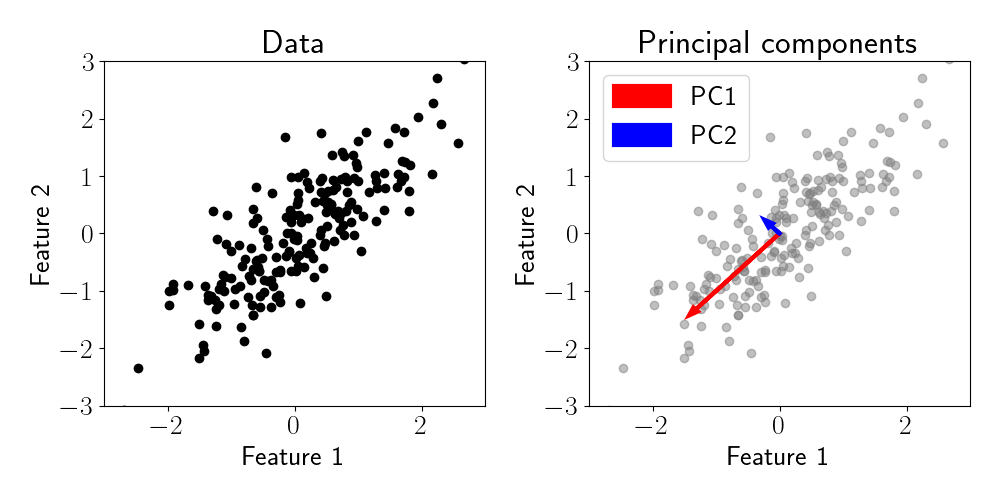
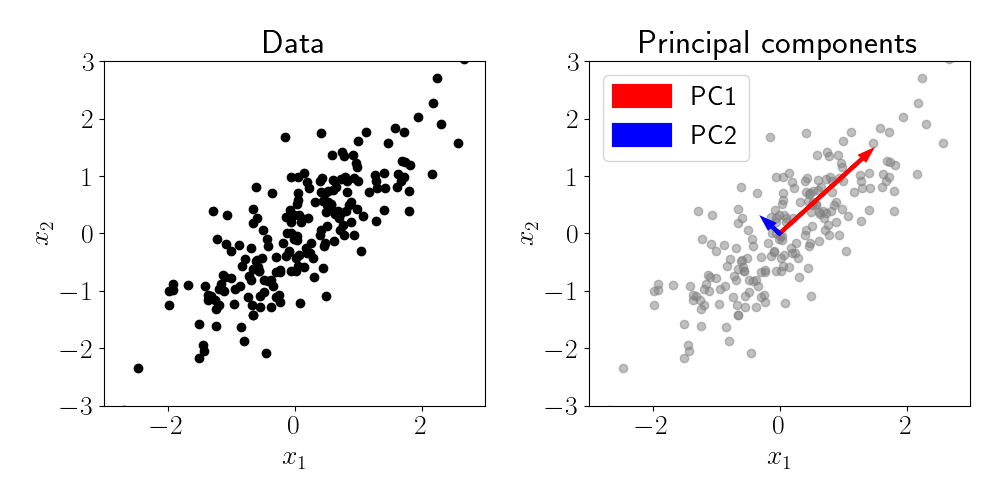
add kernel pca post

diff --git a/_posts/2022-10-22-kernel-pca.md b/_posts/2022-10-22-kernel-pca.md
@@ -1,0 +1,113 @@
+---
+layout: post
+title: "Kernel PCA"
+blurb: "A nonlinear extension of PCA using basis expansions and the kernel trick."
+img: ""
+author: "Andy Jones"
+categories: journal
+tags: []
+<!-- image: -->
+---
+
+$$\DeclareMathOperator*{\argmin}{arg\,min}$$
+$$\DeclareMathOperator*{\argmax}{arg\,max}$$
+
+<style>
+.column {
+  float: left;
+  width: 30%;
+  padding: 5px;
+}
+
+/* Clear floats after image containers */
+.row::after {
+  content: "";
+  clear: both;
+  display: table;
+}
+</style>
+
+## Principal component analysis
+
+Recall that PCA is a linear dimensionality reduction method that performs a change of basis in the data. 
+
+Given an $n \times p$ data matrix $\mathbf{X},$ PCA is performed using an eigendecomposition of the sample covariance matrix. Let $\mathbf{C} = n^{-1} \mathbf{X}^\top \mathbf{X}$ be the sample covariance matrix. Then the first $k$ principal components (where $k < p$) are given by the top $k$ eigenvectors of $\mathbf{C},$ which we denote as $\mathbf{U}_k = (\mathbf{u}_1, \cdots, \mathbf{u}_k).$ The columns of $\mathbf{U}$ can be interpreted as the directions in the data's feature space with the highest variance.
+
+Dimensionality reduction can then be performed by projecting the data onto these components:
+
+$$\tilde{\mathbf{X}}_k = \mathbf{X} \mathbf{U}_k,$$
+
+where $\tilde{\mathbf{X}}_k$ denotes the data matrix with reduced dimensionality.
+
+### Example
+
+Consider a simple dataset with $p = 2$ features and $n = 200$ samples, where the two features are positively correlated with one another. This is demonstrated in the left panel of the figure below, where each black point represents a sample. We can clearly observe the correlation structure between the two features.
+
+To verify that PCA can capture this correlation structure, we can fit PCA with $k=2$ and plot the resulting principal components. These are shown in the right panel of the figure below, where each PC is represented by a vector whose length is proportional to its respective eigenvalue. We can see that PC1 captures the main axis of correlation between the features, while PC2 captures the residual variation that is orthogonal to PC1.
+
+<center>
+<figure>
+  <img src="/assets/kernel_pca_data.png">
+  <figcaption><i><b>Left</b>: Data. <b>Right</b>: Principal components represented as vectors whose lengths are proportional to their respective eigenvalues.</i></figcaption>
+</figure>
+</center>
+
+### Limitations of PCA
+
+While PCA is useful for finding linear manifolds in a dataset, many data types contain nonlinear structure. As a simple motivating example, consider another two-dimensional dataset where there is a quadratic relationship between the features. The figure below shows this situation and the resulting principal components.
+
+<center>
+<figure>
+  <img src="/assets/kernel_pca_data_quadratic.png">
+  <figcaption><i><b>Left</b>: Data. <b>Right</b>: Principal components represented as vectors whose lengths are proportional to their respective eigenvalues.</i></figcaption>
+</figure>
+</center>
+
+Although PC1 is generally pointing in the direction of highest variance, it does not fully capture the curved relationship between the two features. This is an inherent limitation of PCA: it is only equipped to identify linear relationships.
+
+## Kernel PCA
+
+The linearity of PCA motivates the need to generalize this assumption to account for nonlinear structure in datasets. **Kernel PCA**, first proposed in 1997, is a natural extension of PCA that allows for identifying nonlinear structure.
+
+While the theoretical underpinnings of kernel PCA are sophisticated, the basic idea is fairly simple: *instead of operating in the native data space, we first perform a nonlinear transformation of the data, and then perform PCA in that space*. This "nonlinear transformation" (more commonly called a basis expansion) can be chosen to reflect the analyst's assumptions around what type of structure exists in the data.
+
+We denote the function describing the basis expansion as $\phi : \mathbb{R}^p \rightarrow \mathbb{R}^q$ where in many cases $q > p.$ In words, $\phi$ transforms a data sample to a higher dimensional space. Common choices include the polynomial basis, which for $p=2$ is given by
+
+$$\phi(\mathbf{x}) = (1, x_1, x_2, x_1 x_2, x_1^2, x_2^2).$$
+
+We denote the matrix of basis-expanded data as
+
+$$\Phi = (\phi(\mathbf{x}_1), \cdots, \phi(\mathbf{x}_n))^\top.$$
+
+The hope is that in this transformed space, the data will exhibit linear structure so that PCA is now an appropriate choice. Given the covariance matrix $C = \Phi^\top \Phi,$ we can perform an eigendecomposition and obtain kernel-based PCs. 
+
+However, thanks to the [kernel trick](https://en.wikipedia.org/wiki/Kernel_method), we do not actually have to even expand the data with a function $\phi$. Since all we need to run PCA is the covariance matrix (rather than the basis-expanded data itself), the kernel trick allows us to directly compute the covariance matrix under a certain basis expansion through an equivalent kernel function $k(\cdot, \cdot).$ We can then compute the $ij$th element of the covariance matrix as $[C]_{ij} = k(\mathbf{x}_i, \mathbf{x}_j),$ and it will hold that $C = \Phi^\top \Phi$ for the appropriately chosen kernel function.
+
+### Example
+
+Let's return to our example from the figure above where the two features of the data have a nonlinear relationship. Here, for visualization we'll demonstrate an application of kernel PCA to this dataset using a basis function approach, rather than leveraging the kernel trick.
+
+Suppose we choose the basis function $\phi(\mathbf{x}) = [x_1, \sqrt{x_2}].$ The data and its transformed version are shown in the figure below.
+
+<center>
+<figure>
+  <img src="/assets/kernel_pca_demo_transformed_data.png">
+  <figcaption><i></i></figcaption>
+</figure>
+</center>
+
+We can see that after applying the basis function, the two features appear to have a linear relationship. It now seems appropriate to fit PCA. 
+
+<center>
+<figure>
+  <img src="/assets/kernel_pca_demo_isocontours.png">
+  <figcaption><i></i></figcaption>
+</figure>
+</center>
+
+The left panel of the figure above shows the two PCs of the transformed data. We can see that PC1 accounts for the majority of the variance in the data. We can also visualize the regions of the data space that are identified to have similar features values. While in traditional PCA, these "isocontours" would be straight lines or hyperplanes across the space, we see that kernel PCA identifies nonlinear regions of the space that have equal feature value.
+
+
+## References
+
+- Schölkopf, Bernhard, Alexander Smola, and Klaus-Robert Müller. "Kernel principal component analysis." International conference on artificial neural networks. Springer, Berlin, Heidelberg, 1997.
